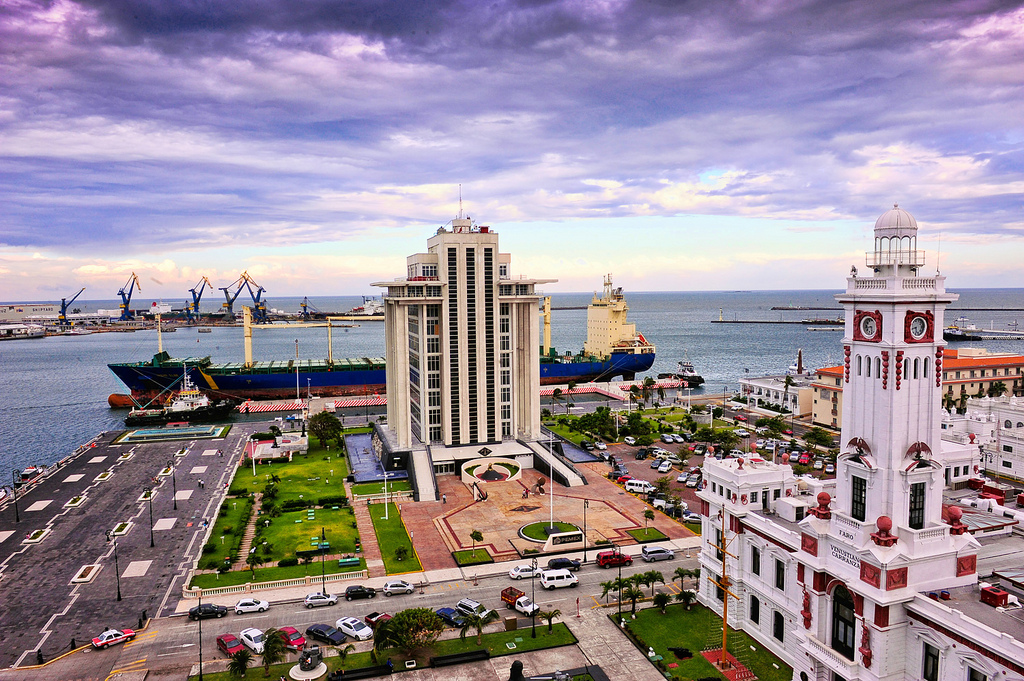
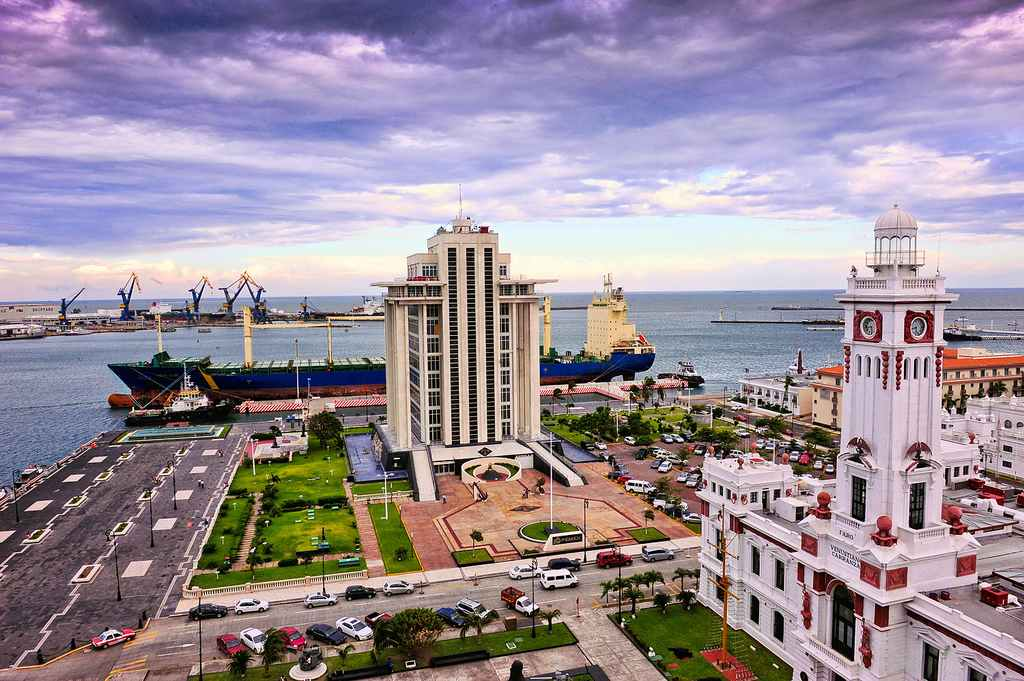
cssEnhancement#1

diff --git a/styles/styles.css b/styles/styles.css
@@ -19,16 +19,23 @@ nav a {
     padding: 10px;
 }
 
-h1 {
+main {
+    max-width: 840px;
+    text-align: justify;
+    width: 400px;
+    margin: 0 auto;
+}
+
+main h1 {
     color: rgb(0, 0, 0);
     text-align: center;
 }
 
-h2 {
+main h2 {
     text-align: center;
 }
 
-img {
+main img {
     width: 150px;
     display: block;
     height: auto;
@@ -39,14 +46,26 @@ img {
 }
 
 p {
-    width: 400px;
-    margin: 20px auto;
-    text-align: justify;
+    padding: 0;
 }
 
-footer p {
-    width: 400px;
-    margin: 0 auto;
+aside {
+    width: 20rem;
+    margin: 20px auto;
+    border: 1px solid rgb(0, 0, 0 / 0.2);
+    padding: 1rem;
+    background-color: #eee;
+    color: #333;
     text-align: center;
-    font-size: smaller
+}
+
+aside img {
+    width: 200px;
+    height: auto;
+}
+
+footer {
+    margin-top: 15px;
+    border-top: 1px solid #000;
+    text-align: center;
 }

diff --git a/index.html b/index.html
@@ -14,8 +14,8 @@
 <body>
     <header>
         <nav>
-            <a href="">Home</a>
-            <a href="">Rafting Website</a>
+            <a href="#">Home</a>
+            <a href="www/">Rafting Website</a>
         </nav>
     </header>
     <main>
@@ -35,7 +35,7 @@
             and the gastronomy is delicious.</p>
     </aside>
     <footer>
-        <p>&COPY;2025 🙌 Israel Huh 🙌 Veracruz, México</p>
+        <p>&COPY;2026 🙌 Israel Huh 🙌 Veracruz, México</p>
     </footer>
 </body>
 
